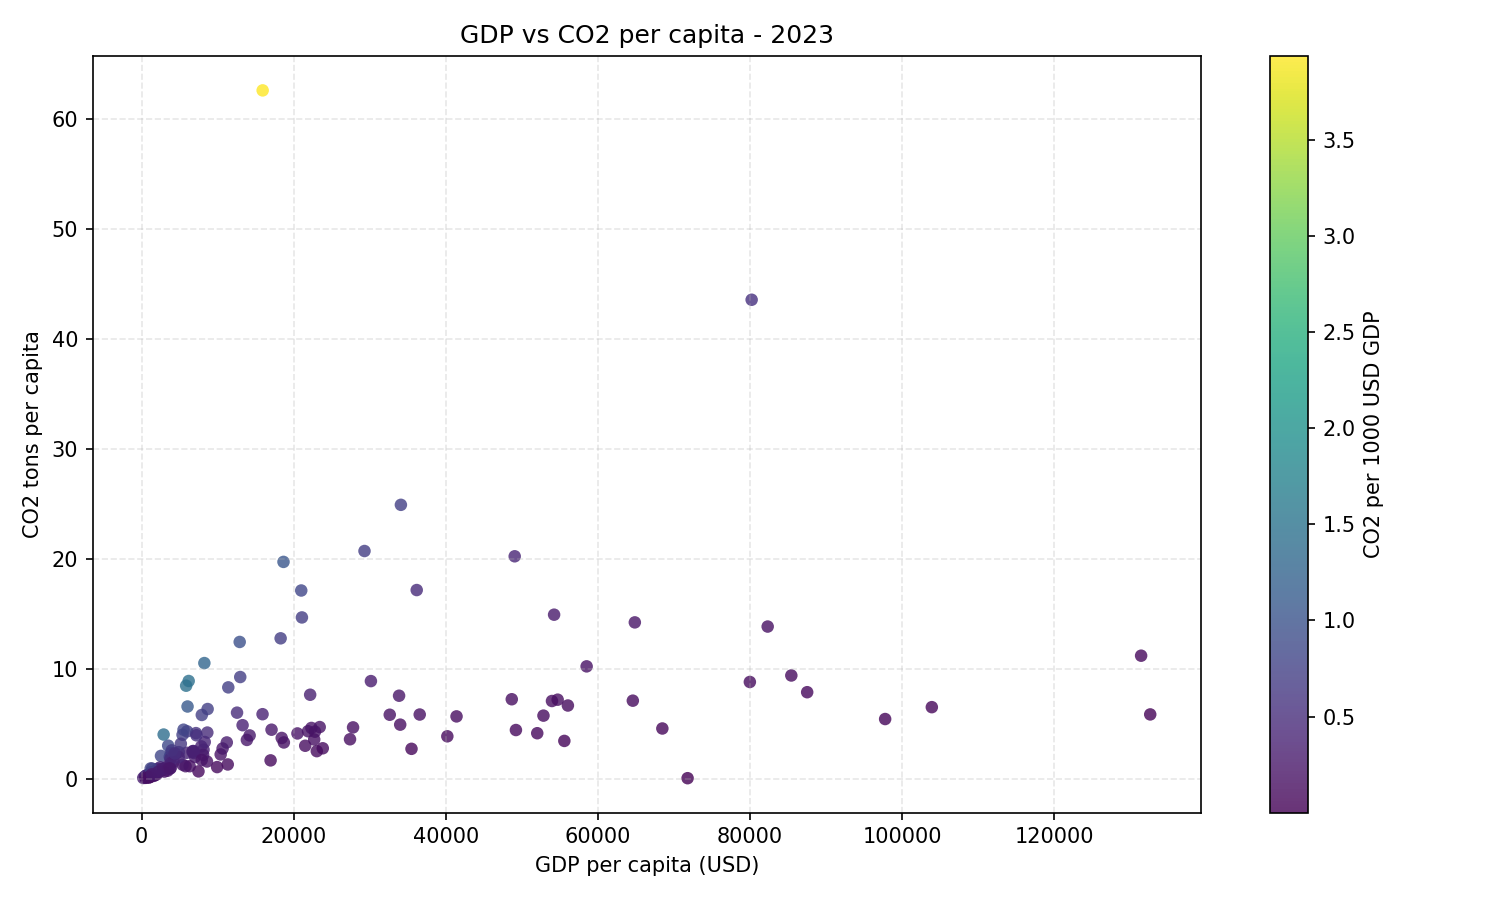
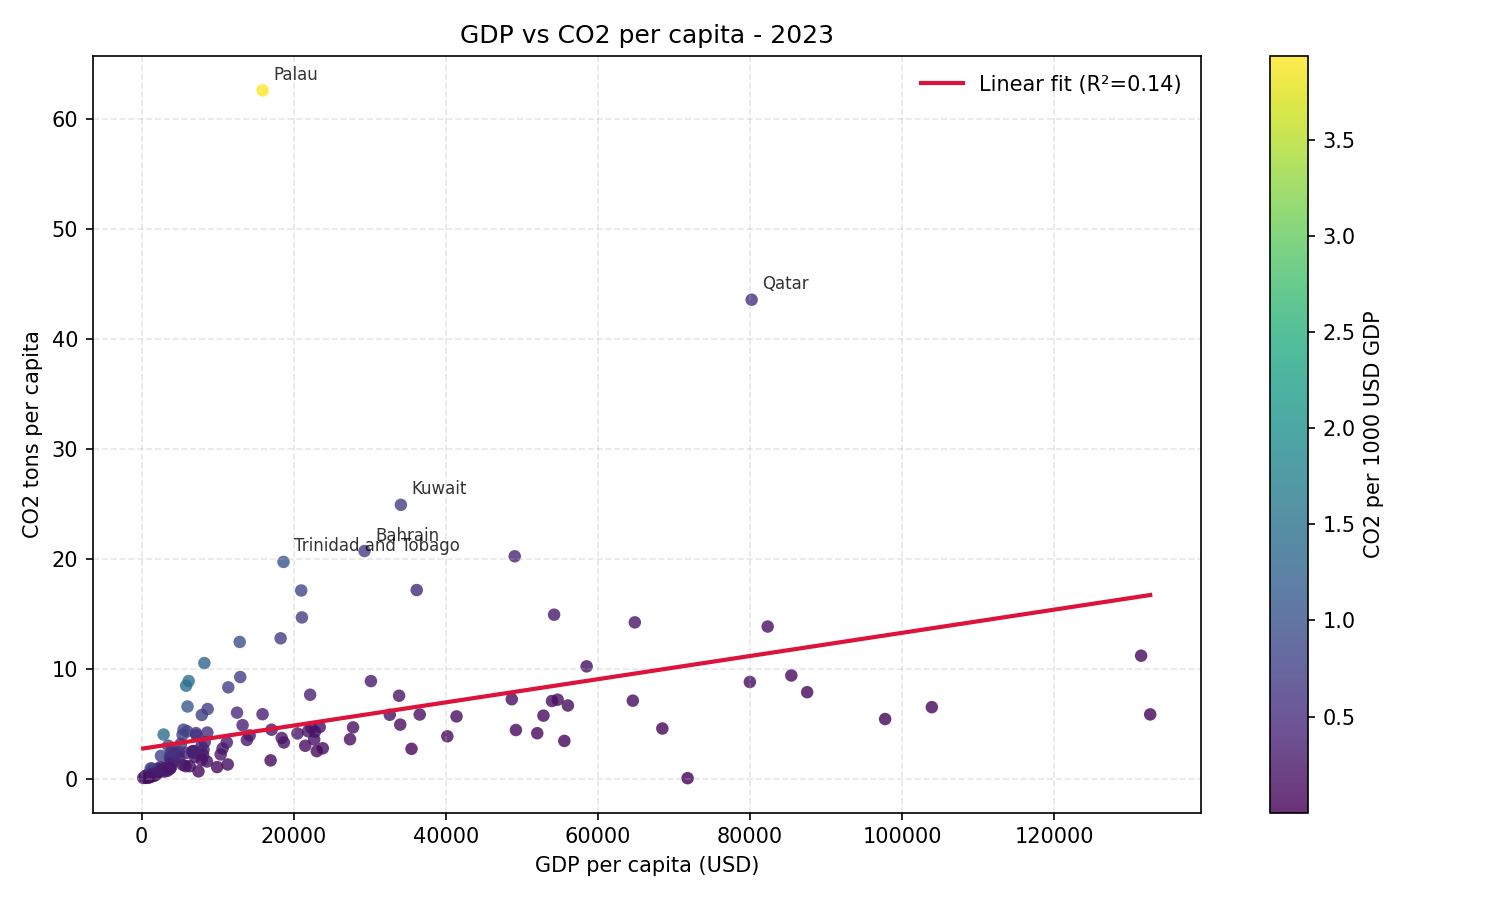
IMP - Update correlation summary format to include CO2 values per country; adjust scatter plot outlier parameter to 7

diff --git a/src/analysis/econ_environment_analytics.py b/src/analysis/econ_environment_analytics.py
@@ -153,7 +153,7 @@ def build_gdp_vs_co2_scatter(
     year: int = 2023,
     storage: StorageAdapter | None = None,
     annotate_outliers: bool = True,
-    outliers_top_n: int = 5,
+    outliers_top_n: int = 7,
 ) -> Path | str:
     """
     Gera o scatterplot para o ano informado (default: 2023).
